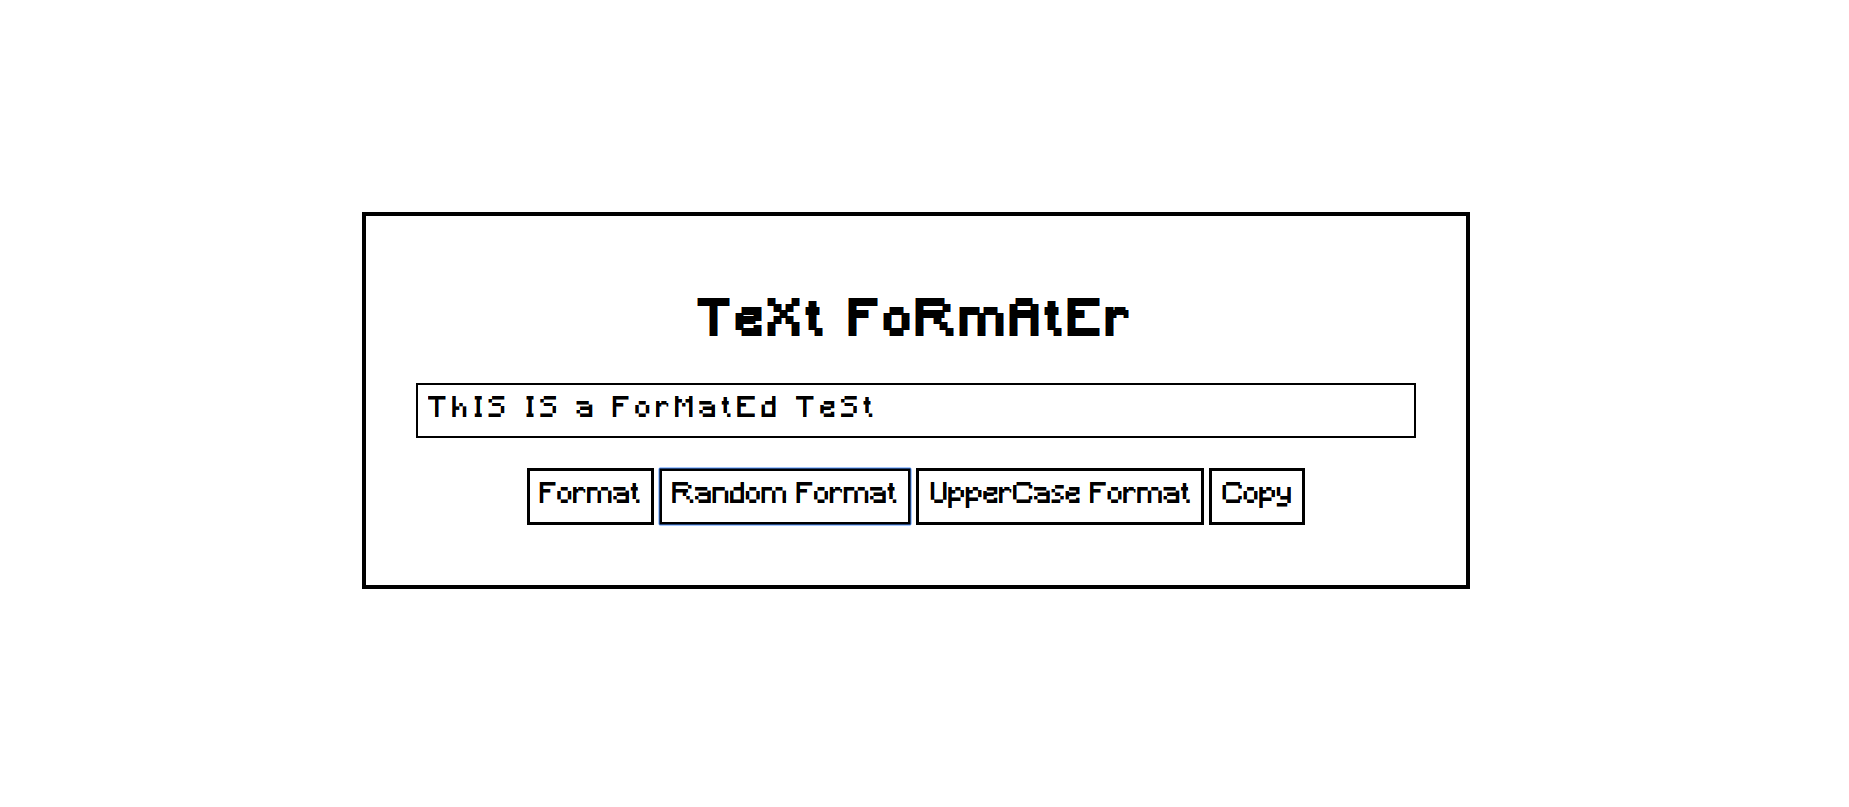
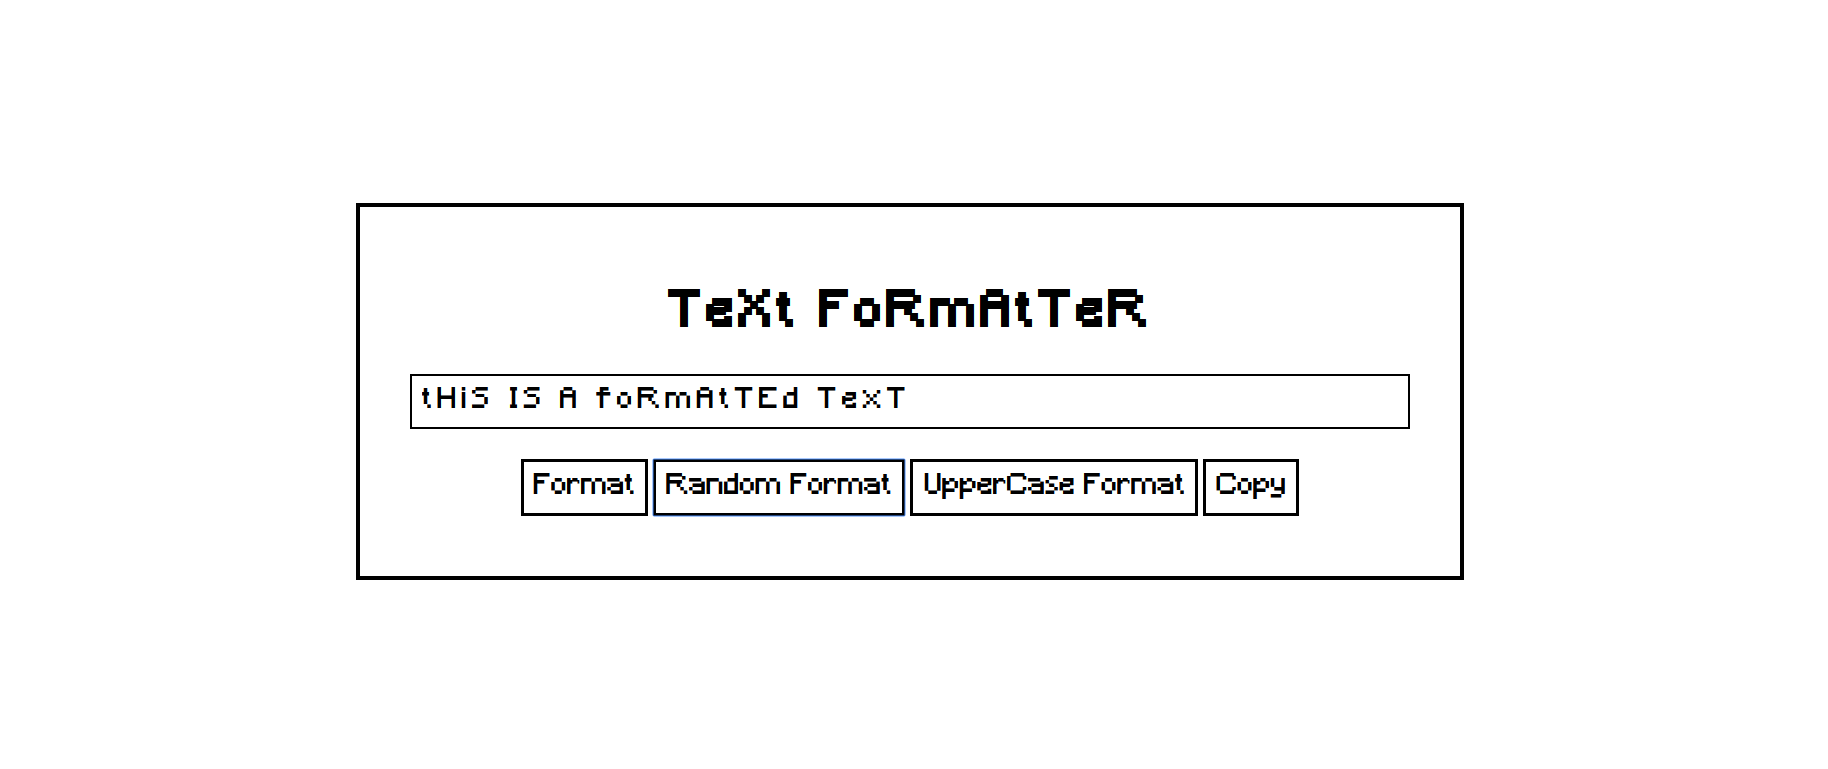
Correct spelling mistake

Changed region(s): [[0.1871, 0.2497, 0.8107, 0.7802], [0.343, 0.3745, 0.6236, 0.4369]]

diff --git a/README.md b/README.md
@@ -1,4 +1,4 @@
-<h1 align="center">Welcome to tExTfOrMaTeR 👋</h1>
+<h1 align="center">Welcome to tExTfOrMatTeR 👋</h1>
 
 > Very very simple website to transform text in mEMe fOrMAt
 
